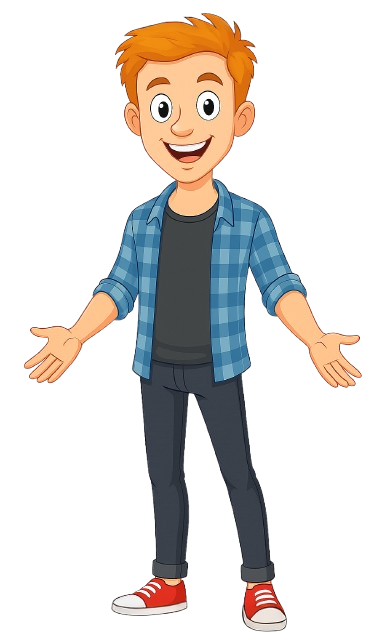
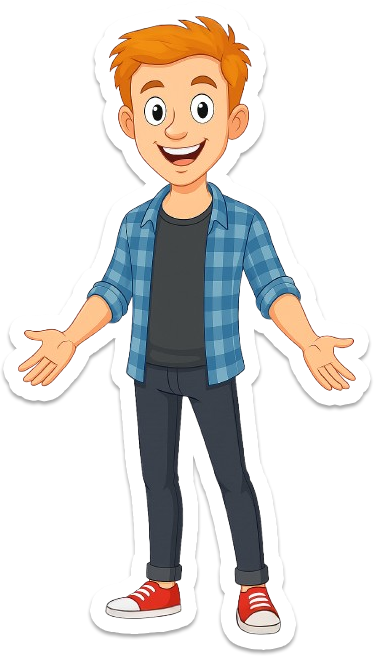
Estilo sticker

diff --git a/main.js b/main.js
@@ -52,9 +52,8 @@ class Personaje {
     this.height = 1000;
     this.velocidad = 10;
     this.saltando = false;
-
     this.element = document.createElement("img");
-    this.element.src = "https://i.ibb.co/XqnWNRs/Flaco.png"
+    this.element.src = "https://i.ibb.co/gLtpq69d/Flaco.png"
     this.element.classList.add("personaje");
     this.element.style.position = "absolute";
     this.element.style.left = `${this.x}px`;
@@ -123,8 +122,11 @@ class Moneda {
     this.y = Math.random() * 250 + 50;
     this.width = 30;
     this.height = 30;
-    this.element = document.createElement("div");
-    this.element.classList.add("moneda");
+    this.element = document.createElement("img");
+    this.element.src = "https://img.icons8.com/?size=200&id=uf15GPjIxkW2&format=png";
+     this.element.style.position = "absolute";
+     this.element.style.left = `${this.x}px`;
+    this.element.style.top = `${this.y}px`;
 
     this.actualizarPosicion();
   }

diff --git a/style.css b/style.css
@@ -2,7 +2,7 @@ body {
   margin: 0;
   font-family: Arial, sans-serif;
   overflow: hidden;
-  background-image: url(./Imagenes/Fondo\ total.jpg);
+  background-image: url(./Imagenes/—Pngtree—elemental\ background\ of\ fast\ food_981344.png);
   background-size: 100% auto;
   display: flex;
   justify-content: center;
